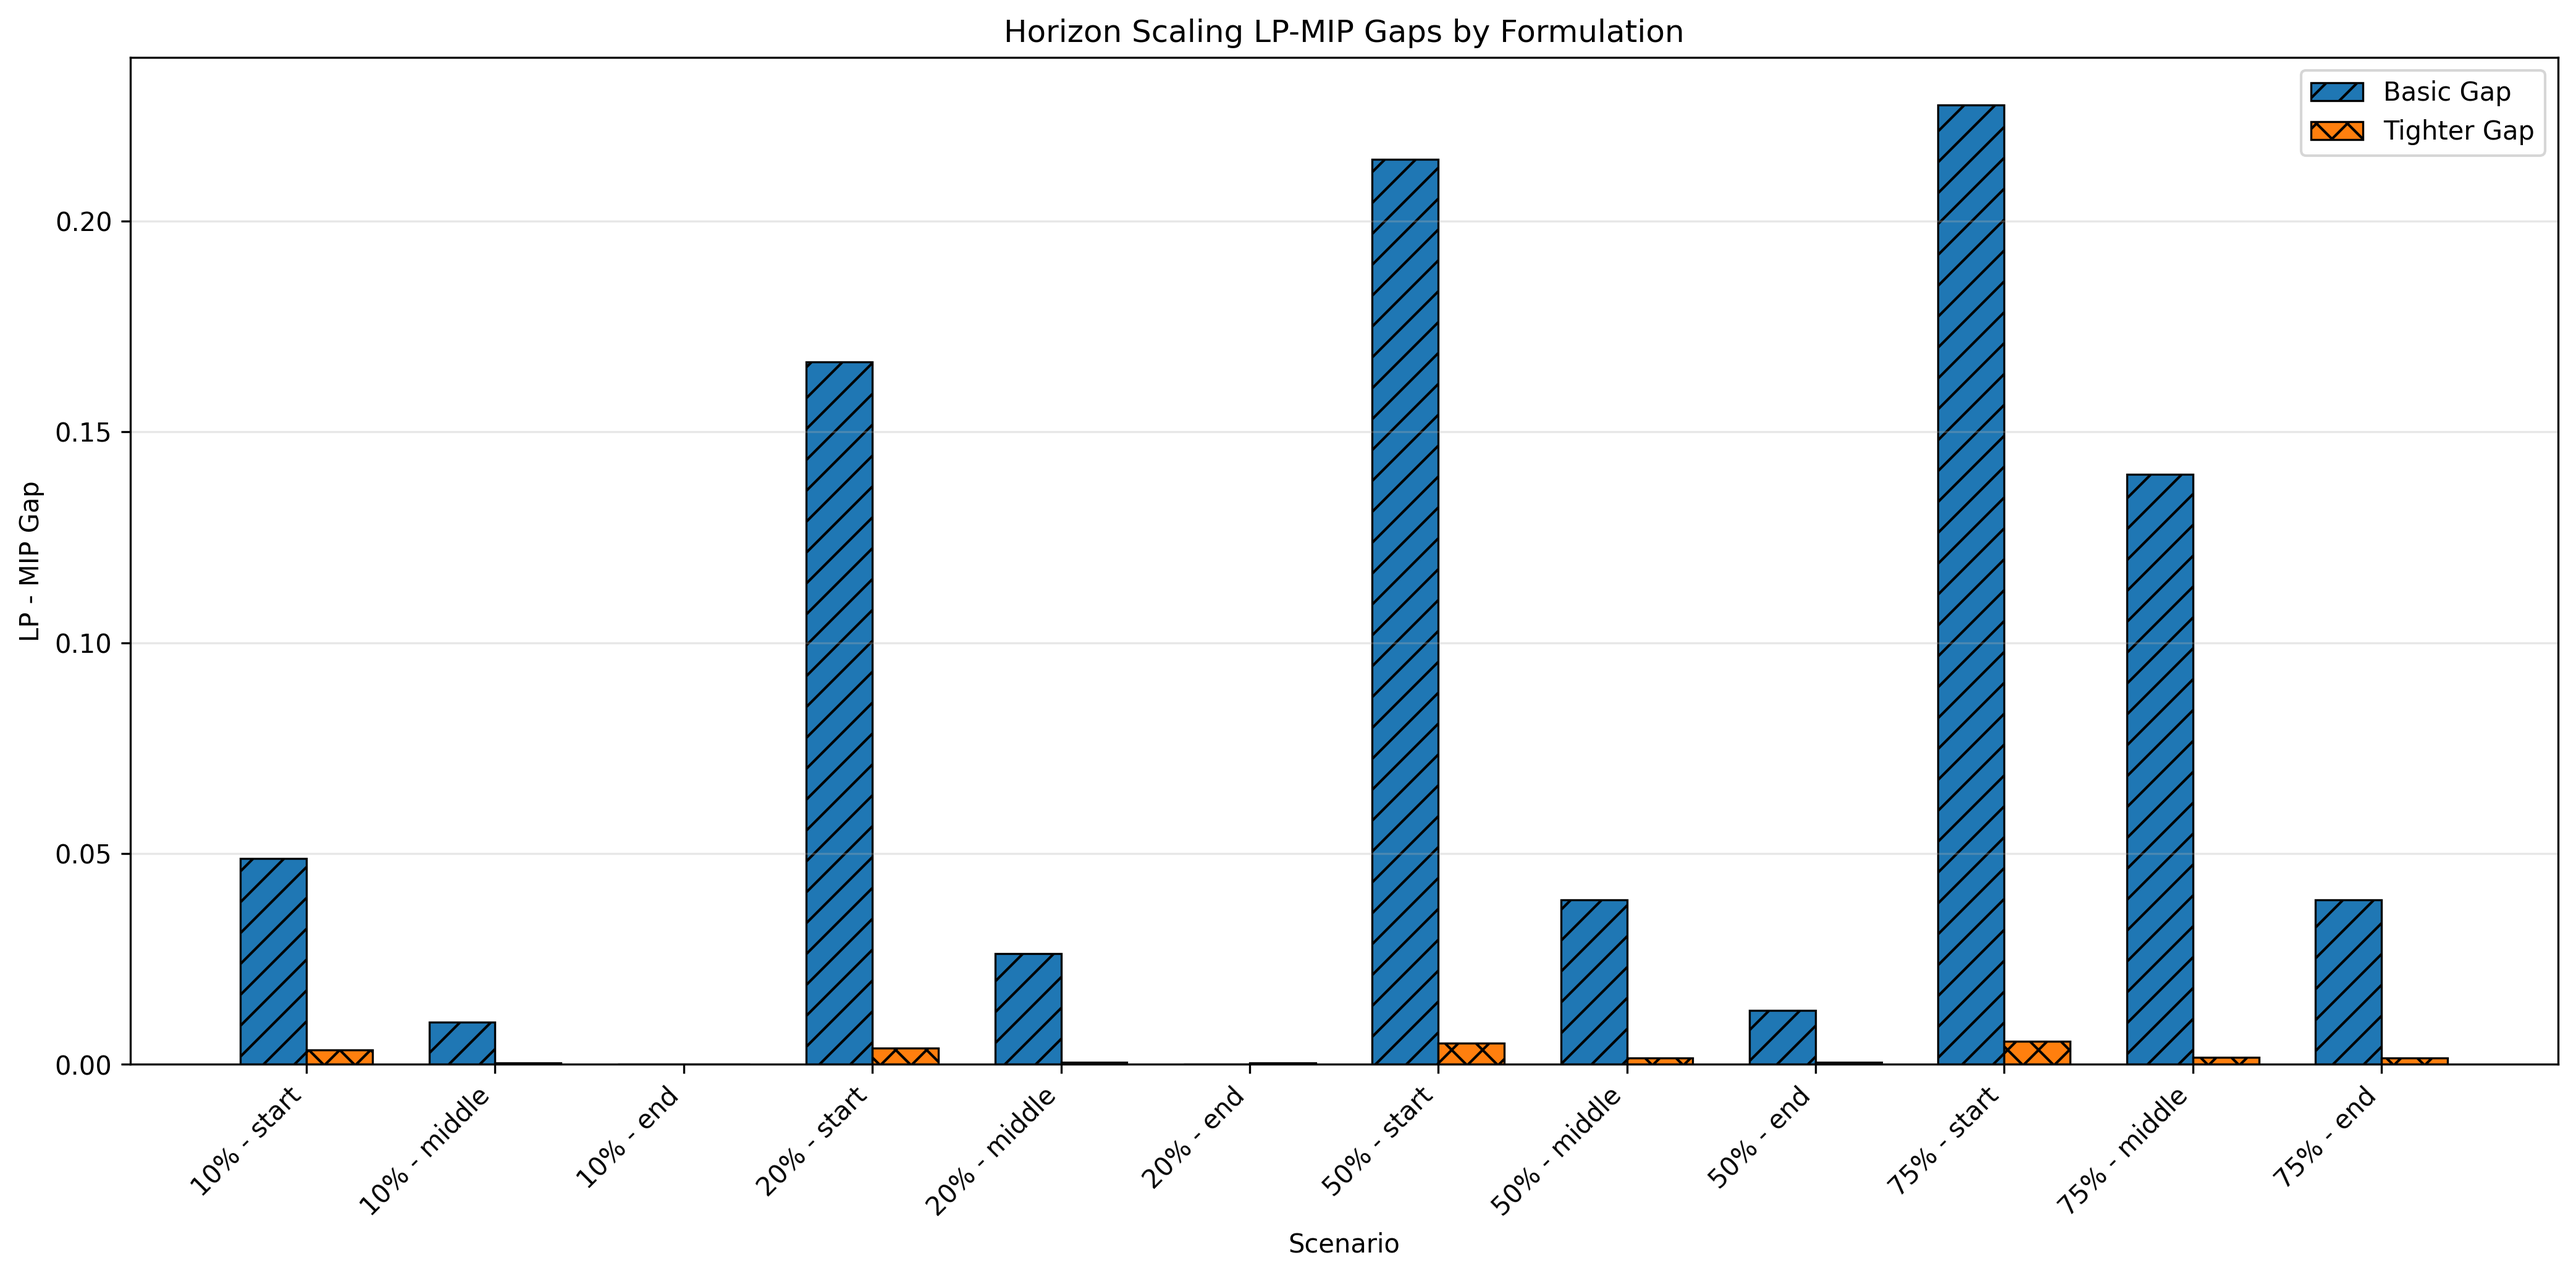
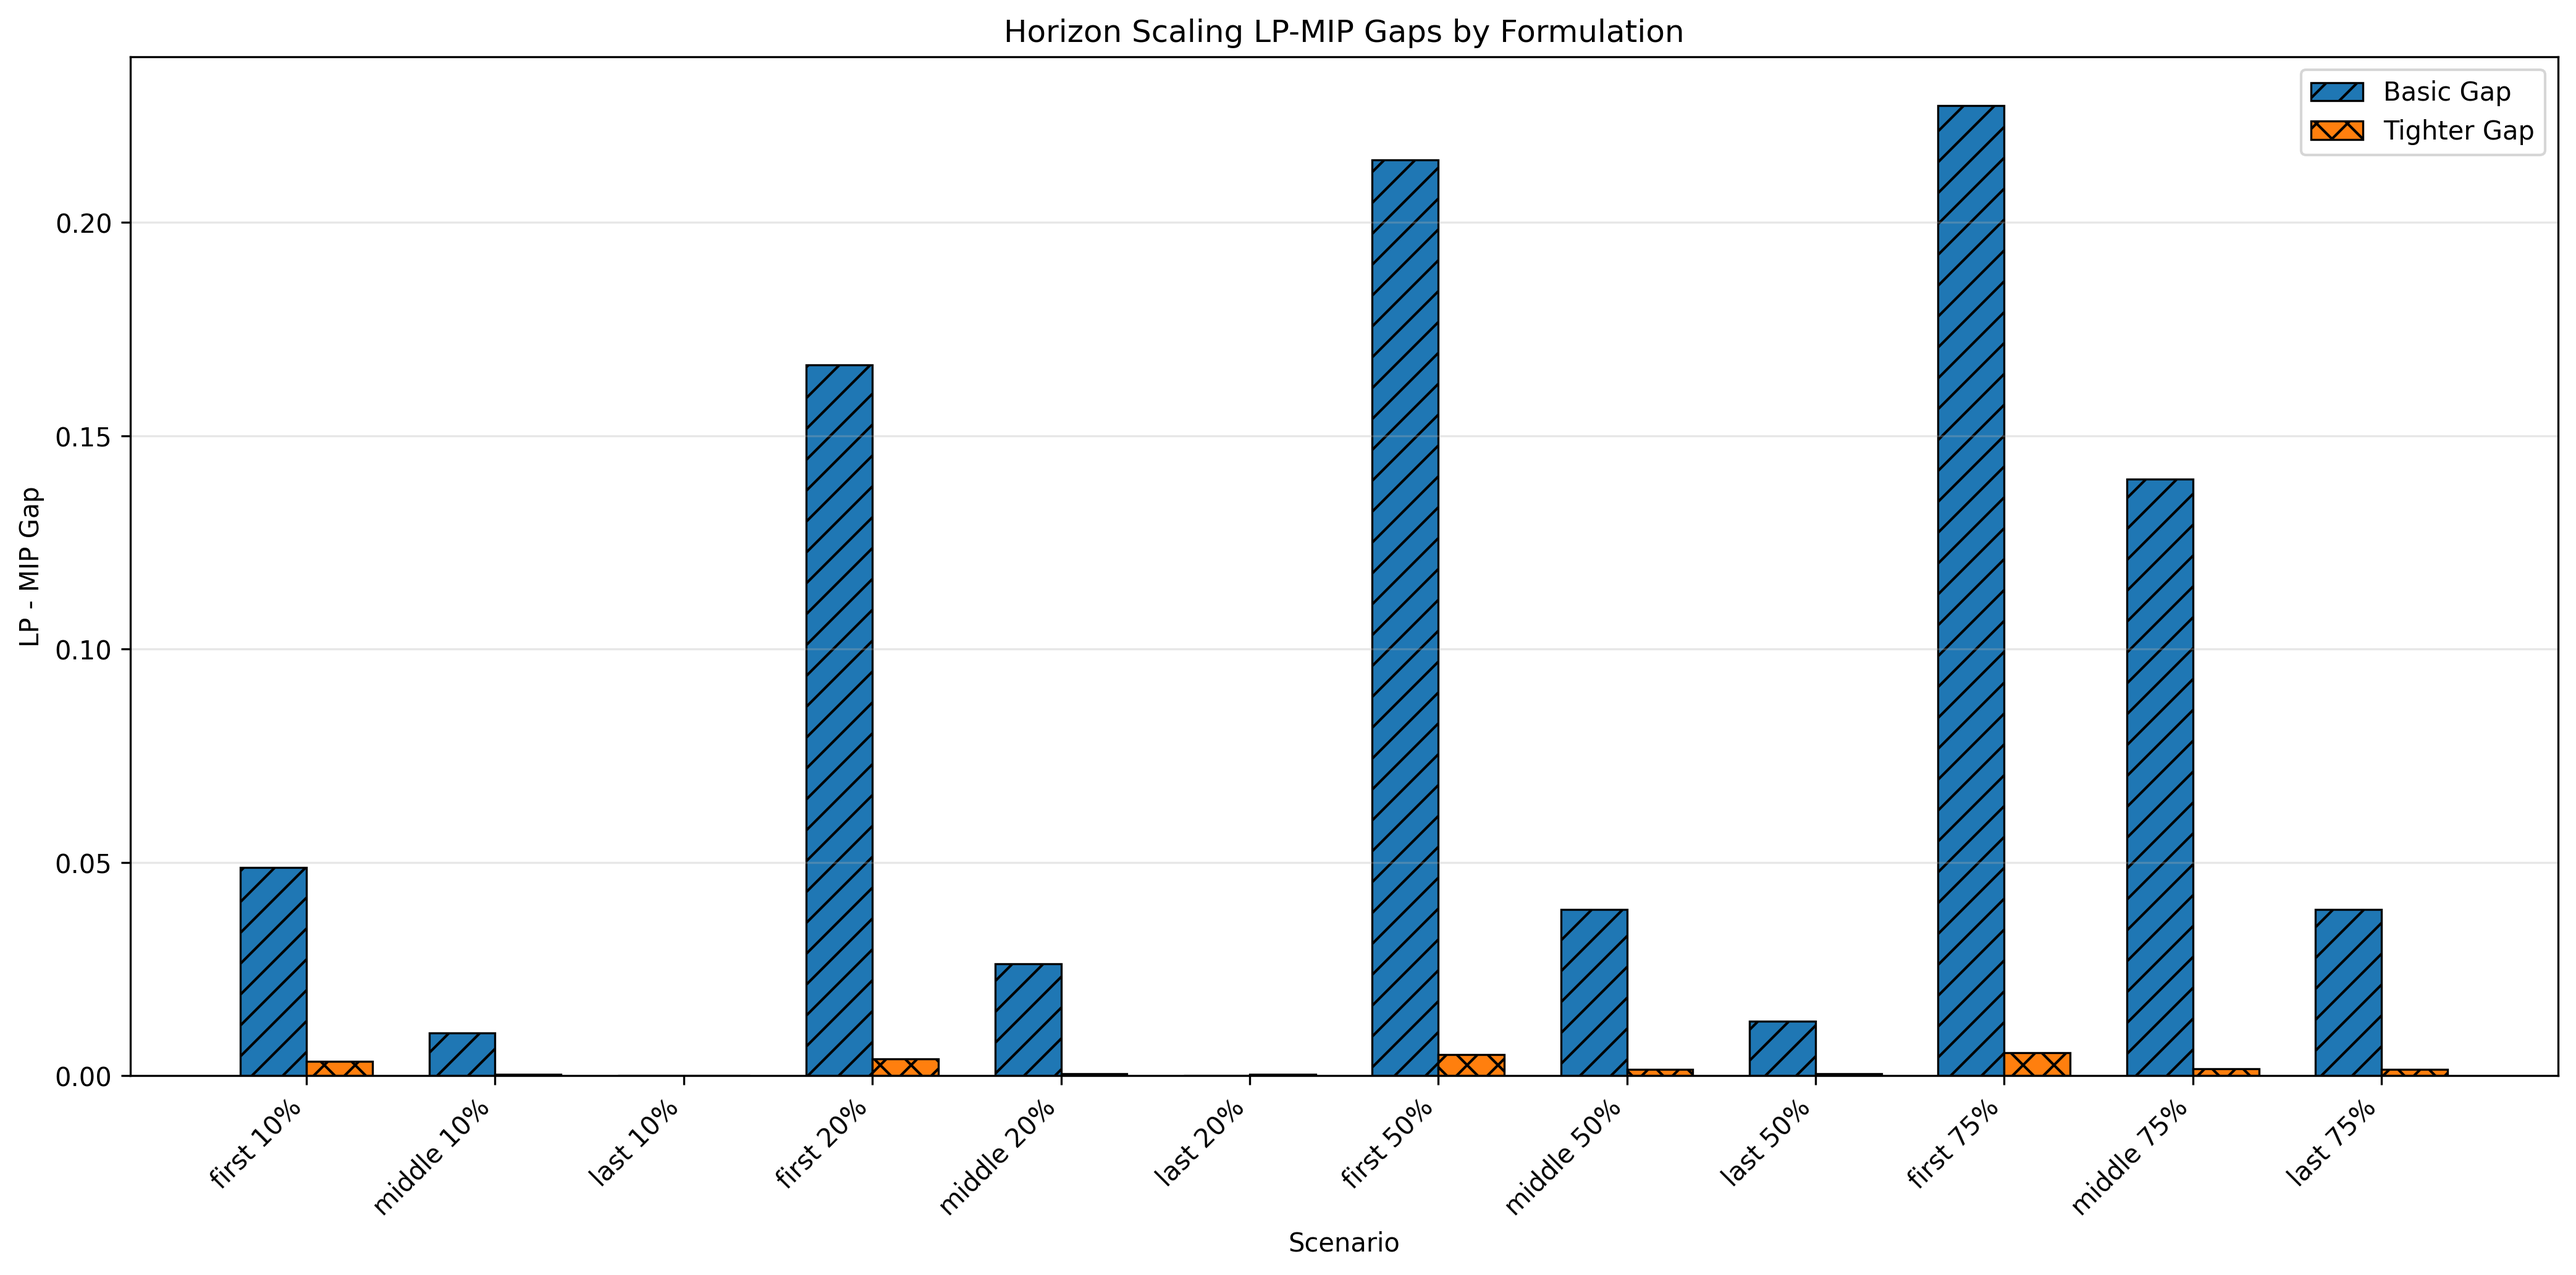
fixed horizon scaling naming

diff --git a/model/helpers/assign4/scenarios.py b/model/helpers/assign4/scenarios.py
@@ -88,15 +88,18 @@ def horizon_scale(data: pd.DataFrame, size: float, period: str) -> pd.DataFrame:
     Args:
     data: project data
     size: proportion of the dataset to be studied, e.g. 0.1 for 10%, 0.75 for 75%
-    period: period to be studied - 'start', 'middle' or 'end'
+    period: period to be studied - 'first', 'middle', or 'last'
     """
-    if period == "start":
+    period_aliases = {"start": "first", "middle": "middle", "end": "last"}
+    normalized_period = period_aliases.get(period, period)
+
+    if normalized_period == "first":
         return data.head(int(data.shape[0] * size))
-    elif period == "middle":
+    elif normalized_period == "middle":
         start_index = int((data.shape[0] - (data.shape[0] * size)) / 2)
         end_index = start_index + int(data.shape[0] * size)
         return data.iloc[start_index:end_index]
-    elif period == "end":
+    elif normalized_period == "last":
         return data.tail(int(data.shape[0] * size))
     else:
-        raise ValueError("Invalid period. Choose 'start', 'middle', or 'end'.")
+        raise ValueError("Invalid period. Choose 'first', 'middle', or 'last'.")

diff --git a/model/helpers/assign4/horizon_scale.py b/model/helpers/assign4/horizon_scale.py
@@ -10,7 +10,7 @@ from . import scenarios
 from .wrapper import solve_model_with_runtime
 
 sizes = [0.1, 0.2, 0.5, 0.75]
-periods = ["start", "middle", "end"]
+periods = ["first", "middle", "last"]
 output_dir = Path("outputs/assignment4")
 results_path = output_dir / "assignment4_horizon_scaling_results.csv"
 gap_results_path = output_dir / "assignment4_horizon_scaling_gaps.csv"
@@ -24,7 +24,7 @@ def run_horizon_scaling(data: pd.DataFrame) -> pd.DataFrame:
     for size in sizes:
         for period in periods:
             scaled_data = scenarios.horizon_scale(base_data, size, period)
-            scenario_label = f"{size:.0%} - {period}"
+            scenario_label = f"{period} {size:.0%}"
             for formulation in [Basic, Tighter]:
                 for lp in [False, True]:
                     profit, runtime_seconds = solve_model_with_runtime(
